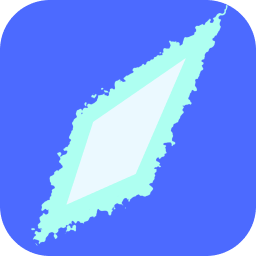
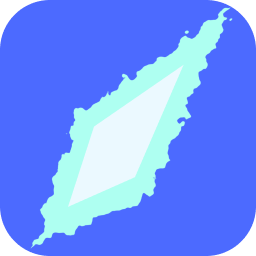
search for the token?, write to db

diff --git a/src/App.tsx b/src/App.tsx
@@ -1,8 +1,9 @@
 import { useState, useEffect } from 'react'
 import './App.css'
+import { supabase } from './utils/supabase'
 
 function App() {
-  const [step, setStep] = useState<'ip' | 'discord' | 'done' | 'failed'>('ip')
+  const [step, setStep] = useState<'ip' | 'working' | 'done' | 'failed'>('ip')
   const [ip, setIp] = useState('')
 
   useEffect(() => {
@@ -11,10 +12,33 @@ function App() {
       .then(r => r.json())
       .then(d => {
         setIp(d.ip)
-        setStep('discord')
+        setStep('working')
       })
-      .catch(() => setStep('discord'))
+      .catch(() => setStep('failed'))
   }, [step])
+
+  useEffect(() => {
+    if (step !== 'working') return
+
+    const token = new URLSearchParams(location.search).get('token')
+    if (!token) {
+      setStep('failed')
+      return
+    }
+
+    supabase
+      .from('verification_tokens')
+      .update({ ip, verified: true })
+      .eq('token', token)
+      .eq('verified', false)
+      .then(({ error }) => {
+        if (error) {
+          setStep('failed')
+        } else {
+          setStep('done')
+        }
+      })
+  }, [step, ip])
 
   return (
     <>
@@ -22,29 +46,29 @@ function App() {
         <div className="card-content">
           {step === 'ip' && (
             <>
-              <h1>Verifying</h1>
-              <p className="subtitle">Checking your connection...</p>
+              <h1>Grabbing your ip</h1>
+              <p className="subtitle">You can request to delete this. We never sell your data cause</p>
             </>
           )}
-          {step === 'discord' && (
+          {step === 'working' && (
             <>
-              <h1>Verify your Discord</h1>
-              <p className="subtitle">TODO: implement Discord verification</p>
+              <h1>Verifying you rn</h1>
+              <p className="subtitle">hold on</p>
             </>
           )}
           {step === 'failed' && (
             <>
               <h1>Verification failed</h1>
-              <p className="subtitle">Could not verify your Discord account</p>
+              <p className="subtitle">Failed to verify, dm the server owner or open a ticket!</p>
             </>
           )}
           {step === 'done' && (
             <>
               <h1>You can now continue to the server!</h1>
-              <p className="subtitle">Welcome!</p>
+              <p className="subtitle">You can close this tab!</p>
             </>
           )}
-          {(step === 'ip' || step === 'discord') && (
+          {(step === 'ip' || step === 'working') && (
             <div className="dots">
               <span className="dot" />
               <span className="dot" />
@@ -52,7 +76,7 @@ function App() {
             </div>
           )}
           {step === 'failed' && (
-            <button className="retry-btn">Try again</button>
+            <button className="retry-btn" onClick={() => setStep('ip')}>Try again</button>
           )}
         </div>
       </div>

diff --git a/src/utils/supabase.ts b/src/utils/supabase.ts
@@ -1,0 +1,6 @@
+import { createClient } from '@supabase/supabase-js'
+
+const supabaseUrl = import.meta.env.VITE_SUPABASE_URL
+const supabaseKey = import.meta.env.VITE_SUPABASE_PUBLISHABLE_KEY
+
+export const supabase = createClient(supabaseUrl, supabaseKey)⏎  